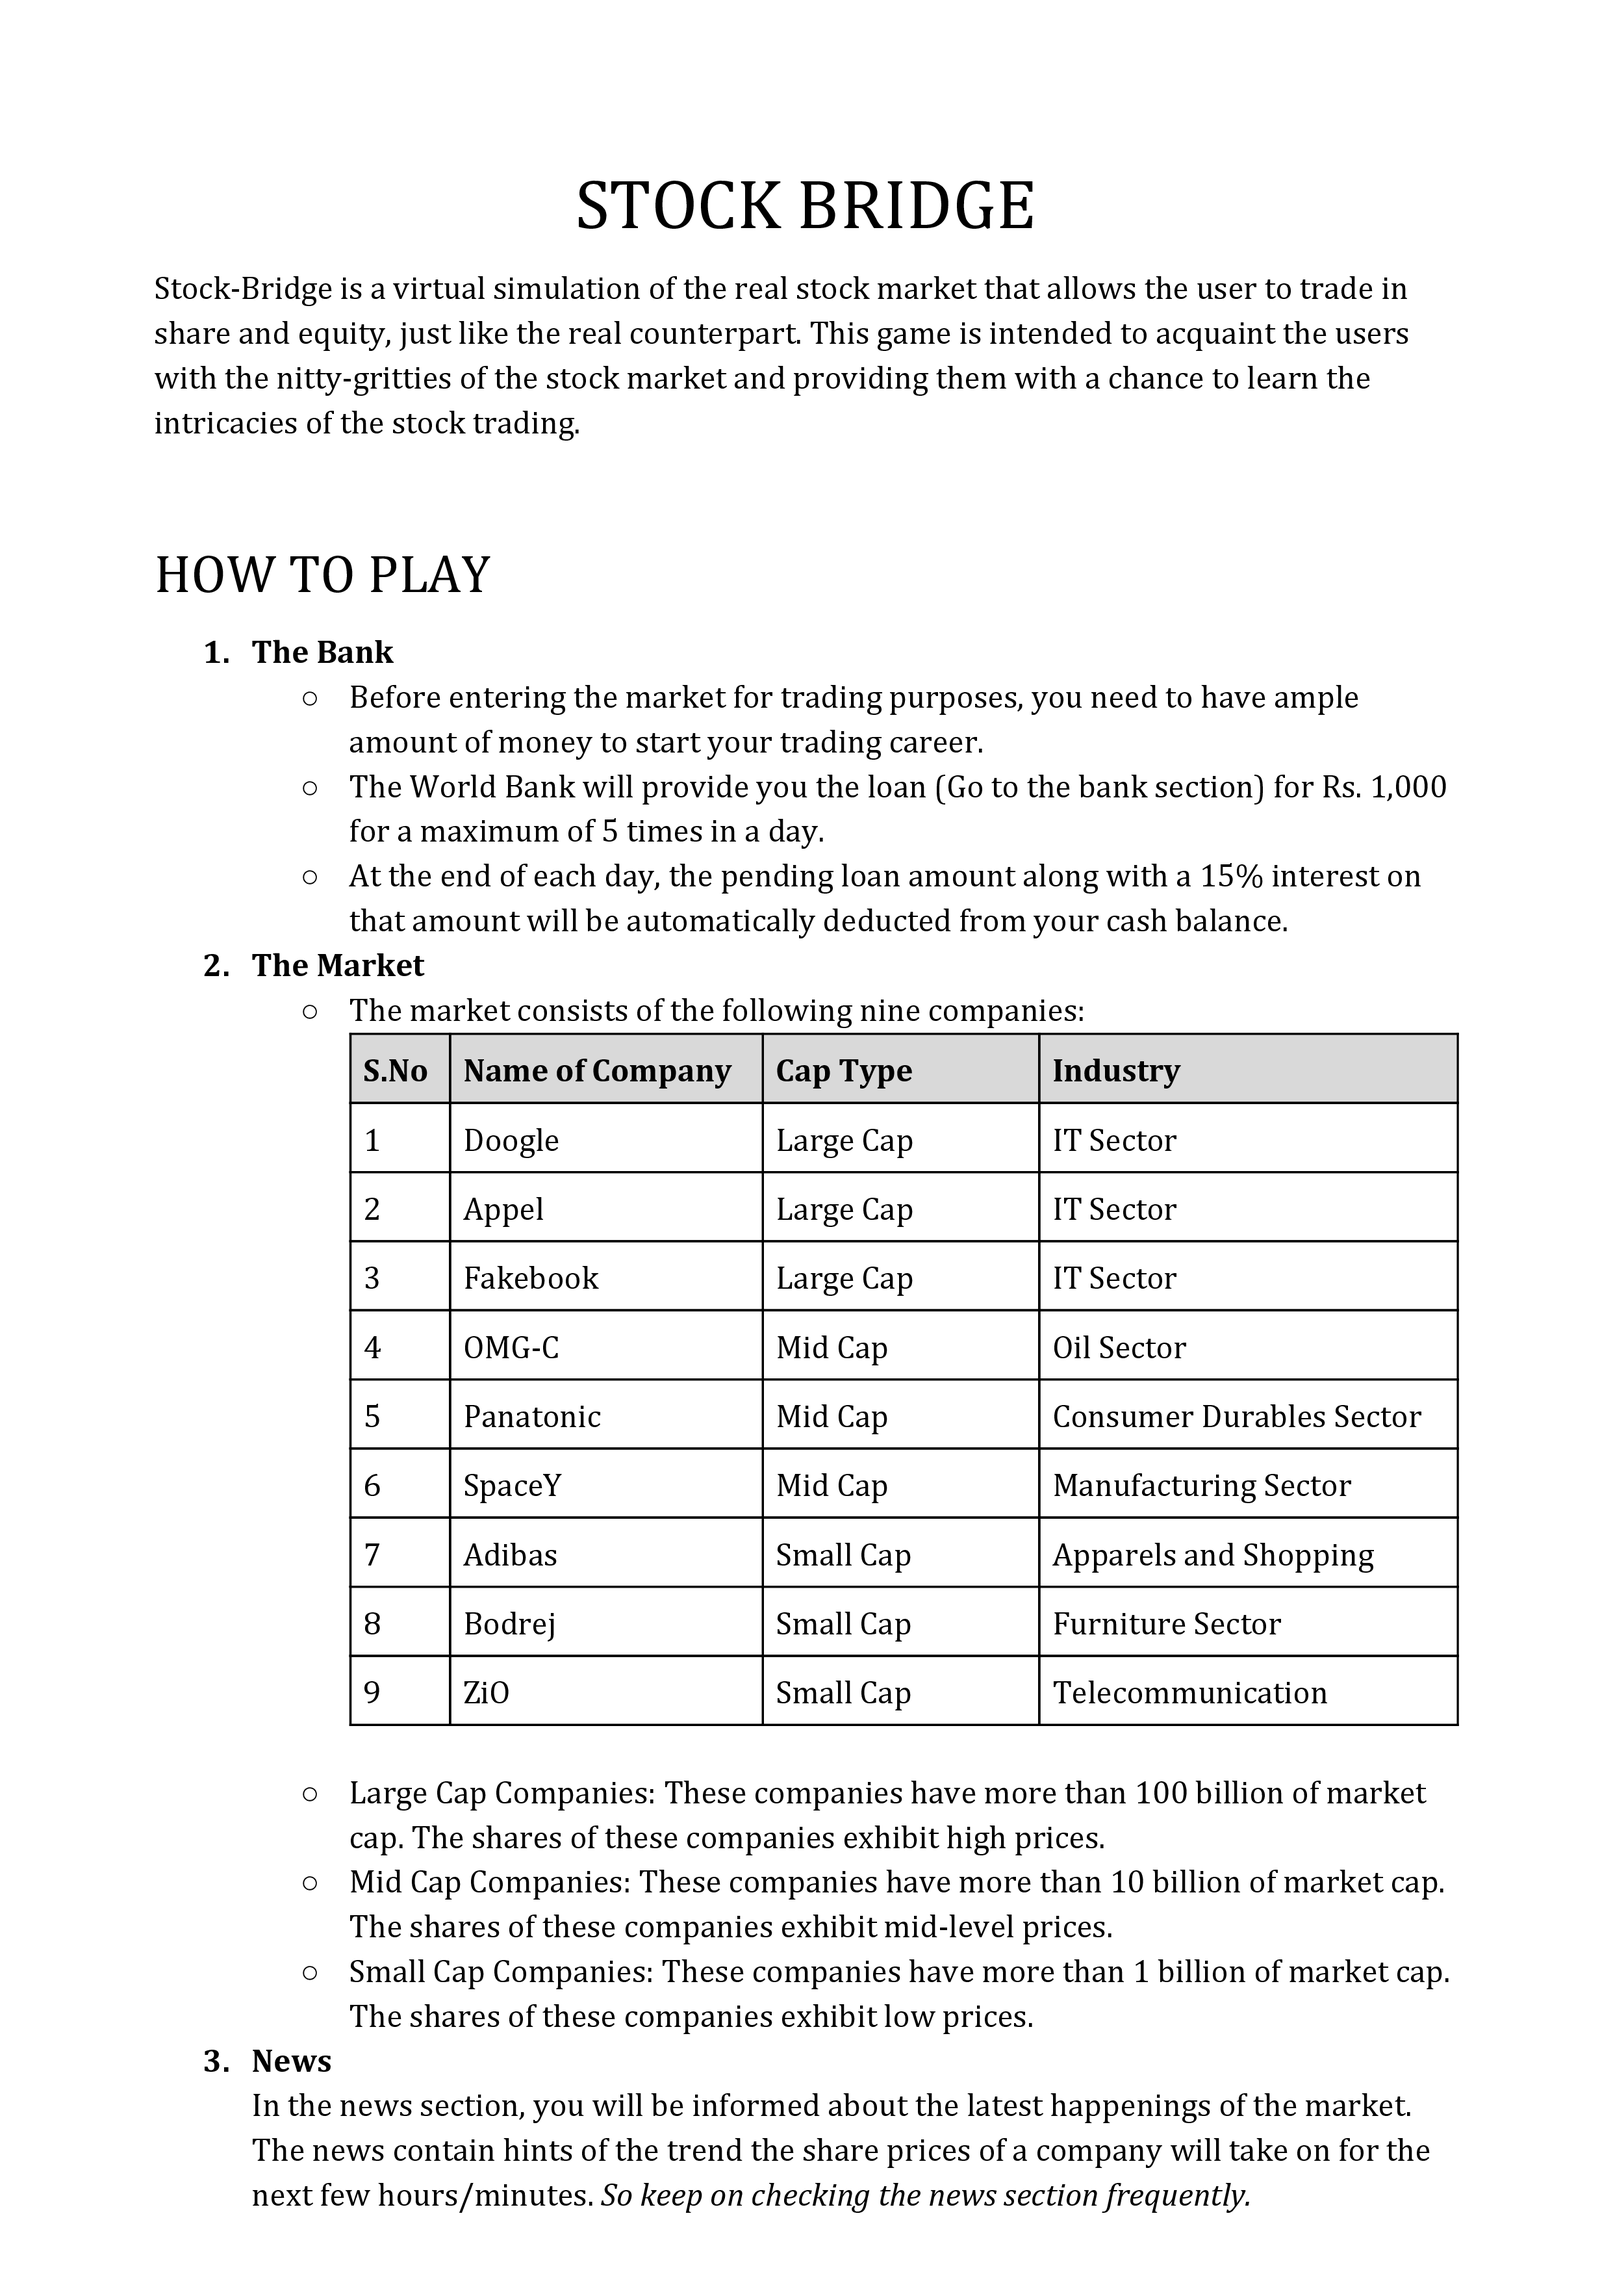
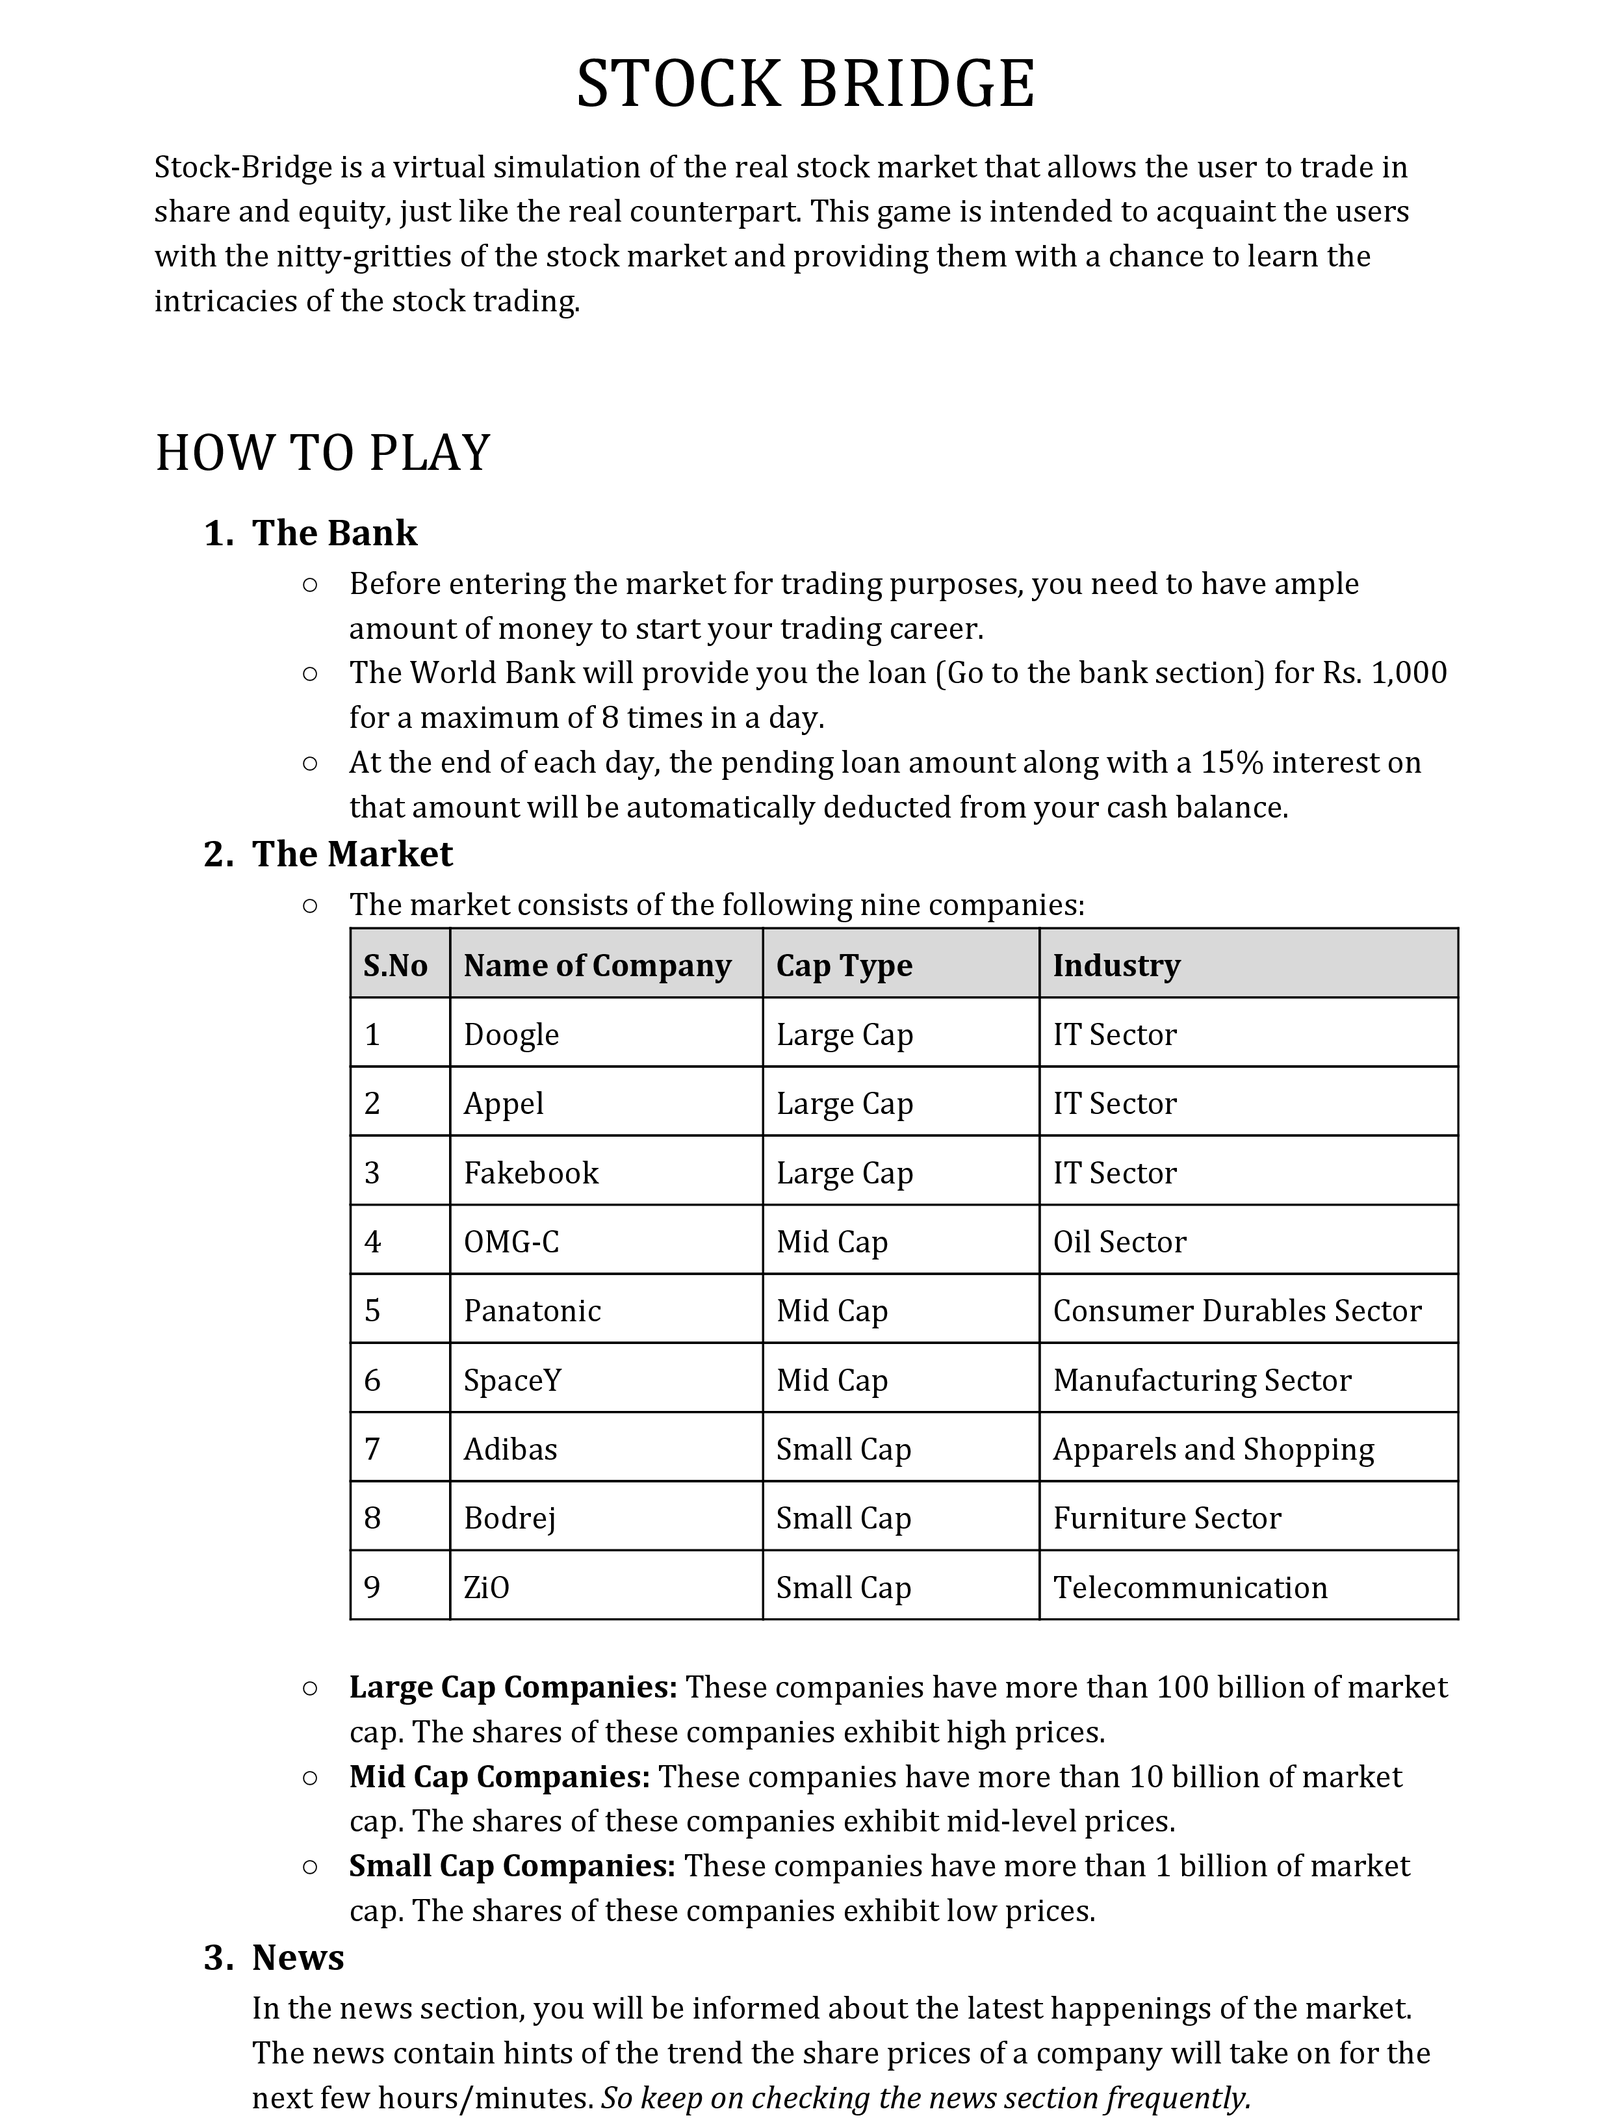
update instructions page and increase loan amount issue

Changed region(s): [[0.0932, 0.031, 0.9318, 1.0]]

diff --git a/templates/instructions.html b/templates/instructions.html
@@ -7,10 +7,10 @@
 
 {% block content %}
 
-<div>
+<div id="rules-1" class="mb-1">
     <img class="img-fluid" src="{% static 'img/rules_1.png' %}">
 </div>
-<div>
+<div id="rules-2">
     <img class="img-fluid" src="{% static 'img/rules_2.png' %}">
 </div>
 

diff --git a/market/templates/market/transaction_market.html b/market/templates/market/transaction_market.html
@@ -107,5 +107,10 @@
     </form>
   </div>
 </div>
+<div class="row mt-3">
+  <div class="col-12 text-center">
+    How to use scheduler? <a href="{% url 'instructions' %}#rules-2">Click Here!</a>
+  </div>
+</div>
 
 {% endblock %}

diff --git a/stock_bridge/settings/base.py b/stock_bridge/settings/base.py
@@ -34,9 +34,8 @@ ADMINS = MANAGERS
 # Bank Data
 DEFAULT_LOAN_AMOUNT = Decimal(1000.00)
 BOTTOMLINE_CASH = Decimal(1000.00)
-MAX_LOAN_ISSUE = 5
+MAX_LOAN_ISSUE = 8
 RATE_OF_INTEREST = Decimal(0.15)  # 15%
-TAX_RATE = Decimal(0.40)  # 40%
 START_TIME = datetime(2019, 4, 12, 4, 00, 0)
 STOP_TIME = datetime(2020, 5, 5, 2, 00, 0)
 
